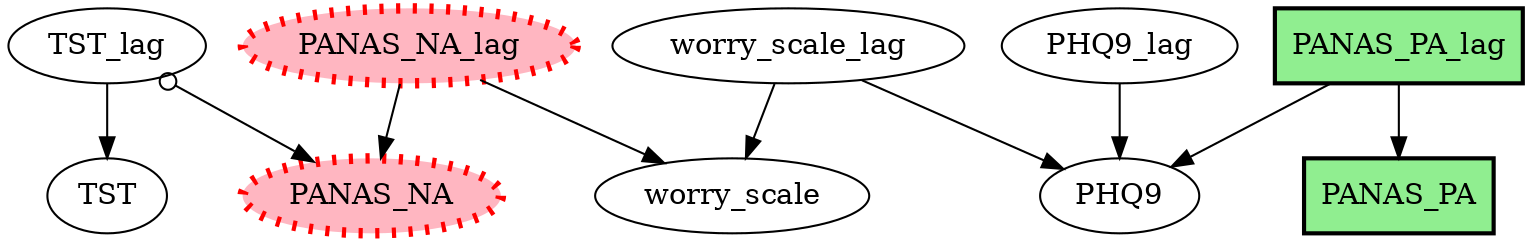
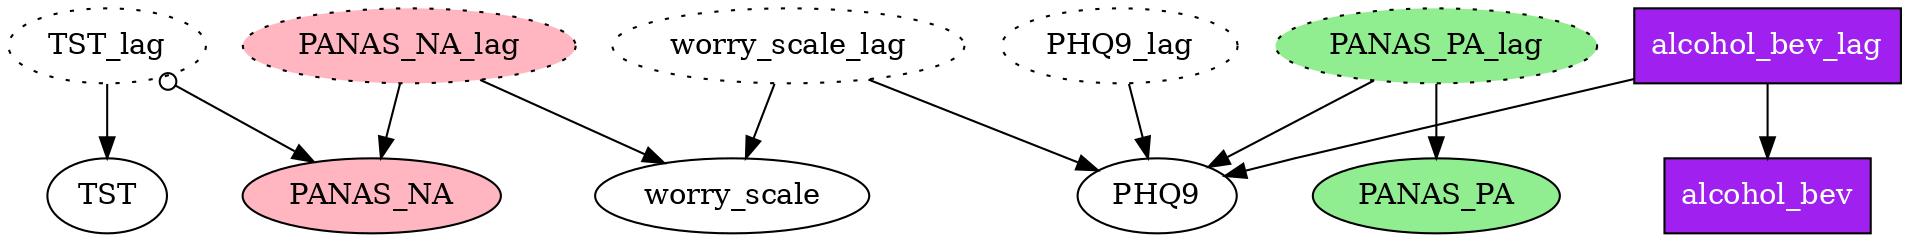
Update README: add directed_only example, match node styles to demo notebook

diff --git a/README.md b/README.md
@@ -150,15 +150,25 @@ graph.show_graph()
 
 ![Example Graph](https://github.com/kelvinlim/fastcda/blob/main/assets/causal_graph_boston.png)
 
+f. Show directed edges only
+
+```
+# lets show the directed edges only
+graph.show_graph(directed_only=True)
+```
+
 ### 4. Node Styling
 
 Nodes in causal graphs can be visually styled by name pattern. Define a list of style rules, each with a `pattern` (fnmatch glob) and any Graphviz node attributes. Rules apply in order — later rules override earlier ones for the same node.
 
 ```python
 node_styles = [
-    {"pattern": "PANAS_PA*", "shape": "box", "style": "filled", "fillcolor": "lightgreen", "penwidth": "2"},
-    {"pattern": "PANAS_NA*", "shape": "oval", "style": "filled,dotted", "fillcolor": "lightpink",
-     "penwidth": "5", "color": "red"},
+    {"pattern": "*_lag",        "style": "dotted"},
+    {"pattern": "PANAS_PA*",    "style": "filled", "fillcolor": "lightgreen"},
+    {"pattern": "PANAS_NA*",    "style": "filled", "fillcolor": "lightpink"},
+    {"pattern": "PANAS_PA_lag", "style": "filled,dotted", "fillcolor": "lightgreen"},
+    {"pattern": "PANAS_NA_lag", "style": "filled,dotted", "fillcolor": "lightpink"},
+    {"pattern": "alcohol_bev*", "shape": "box", "style": "filled", "fillcolor": "purple", "fontcolor": "white"},
 ]
 
 # Display styled graph in notebook (instead of graph.show_graph())
